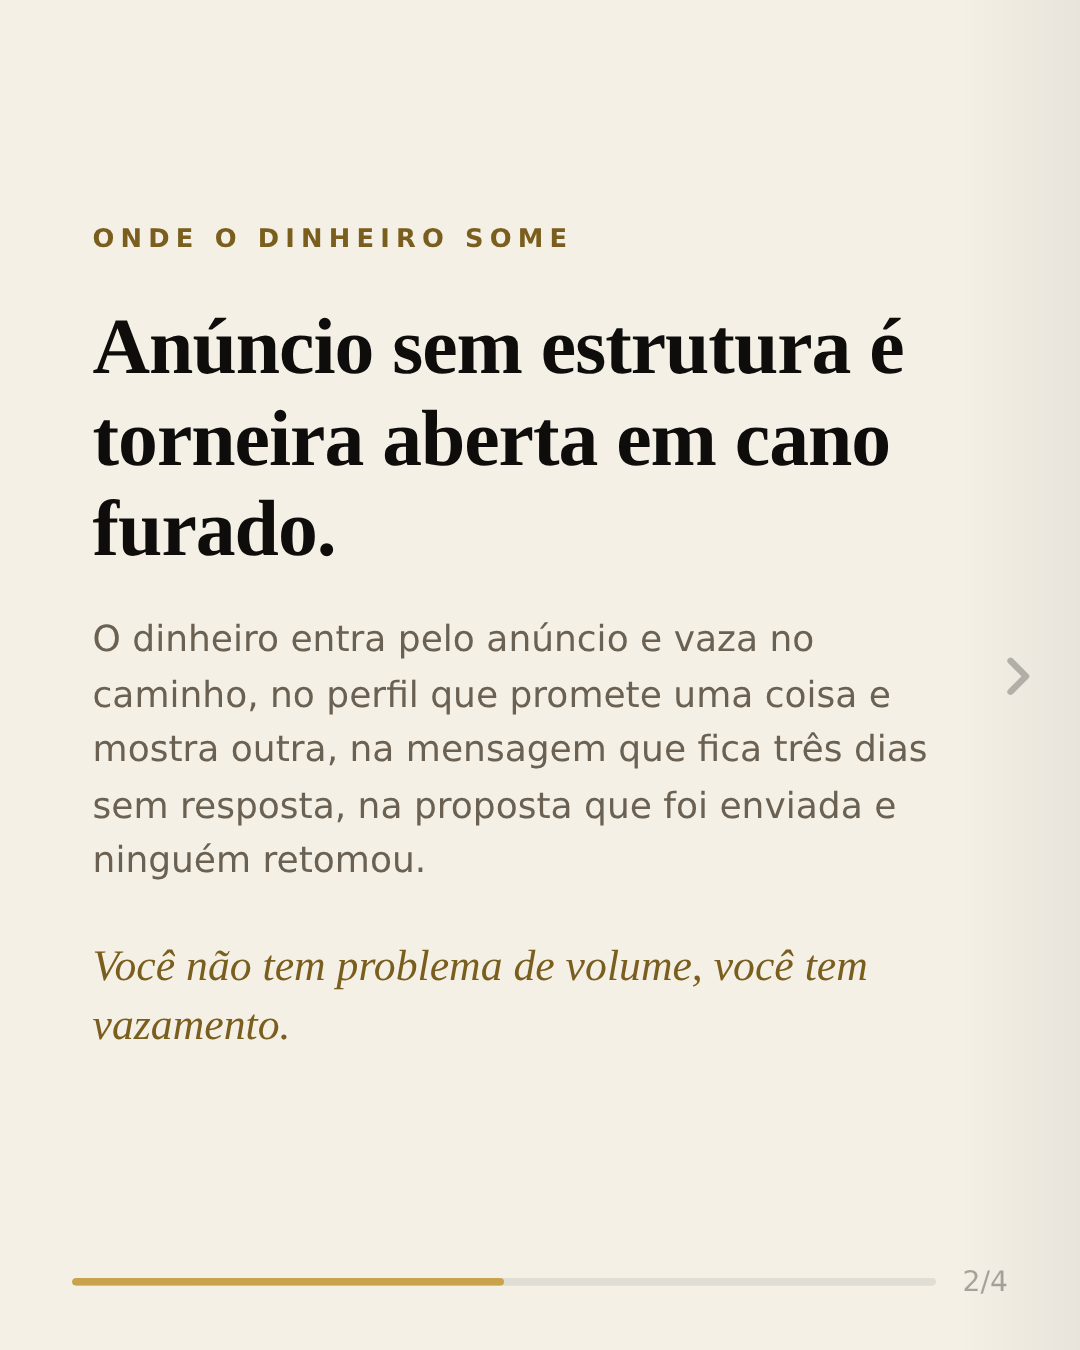
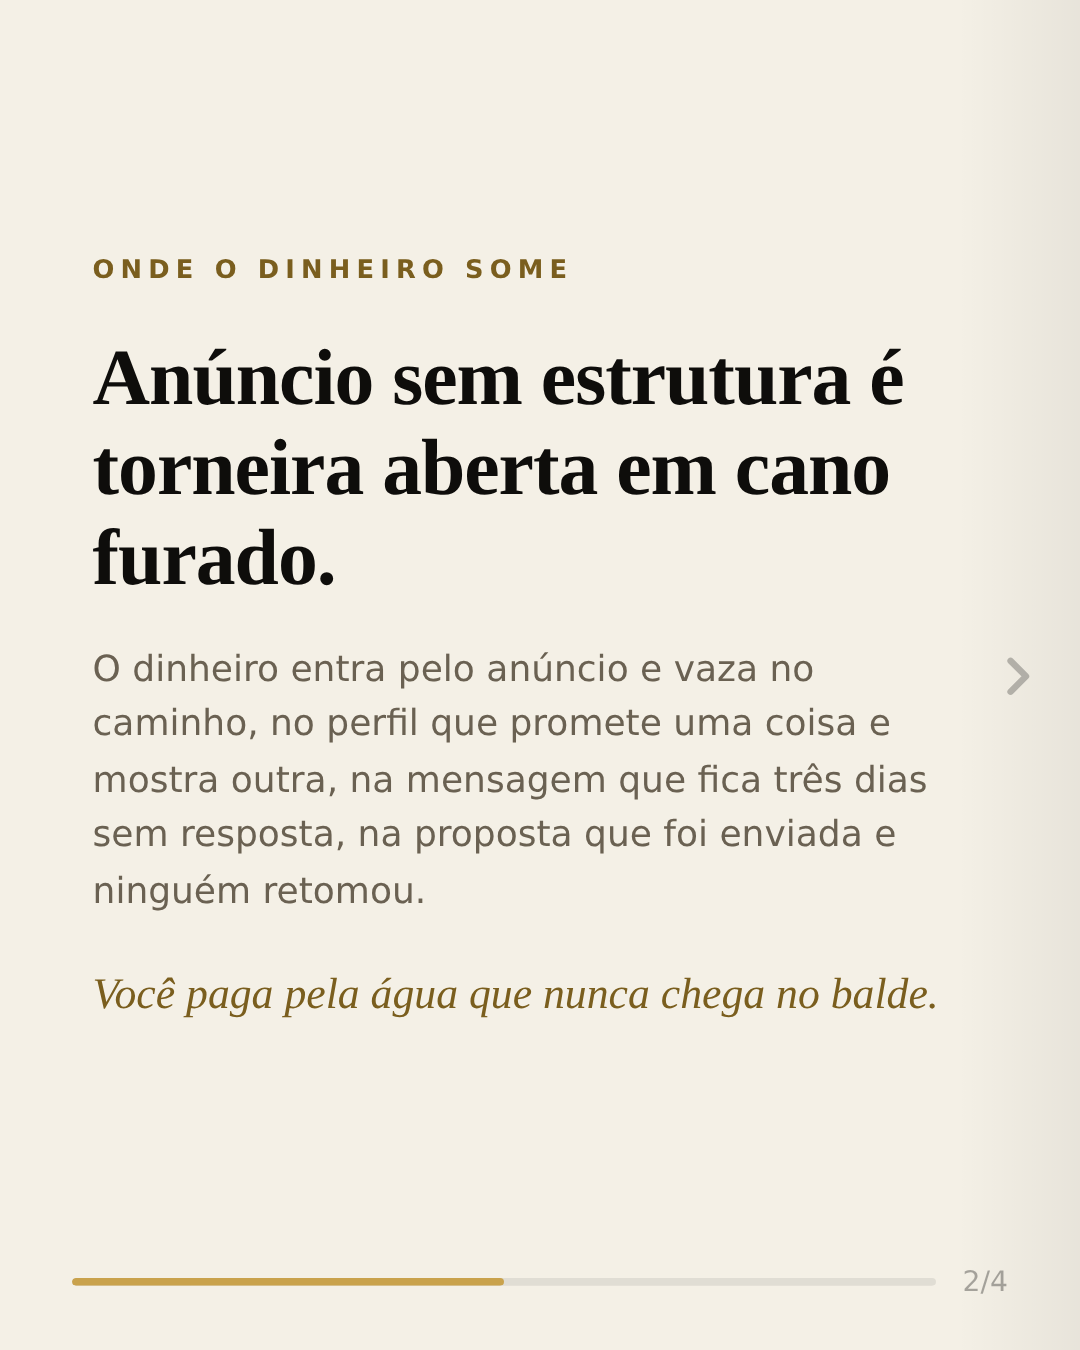
Vitoria Daniela: ajusta o remate do card 2 e cria variante do card 3 pro trafego
Remate do card 2: "Voce nao tem problema de volume, voce tem vazamento" ainda
era o padrao X/Y, so que com virgula no lugar do ponto. Virou "Voce paga pela
agua que nunca chega no balde", que estende a metafora e nomeia a perda em vez
de contrapor.

Palavra "sangue": verificada a politica oficial do Meta (Violent and Graphic
Content). Ela e escrita exclusivamente sobre imagery, proibindo imagens com
orgaos ou ossos expostos e armas apontadas pro espectador. A palavra blood nao
aparece na politica e nao ha restricao textual, entao nao ha violacao.

Mesmo assim, como o texto vai dentro da imagem e a revisao automatizada faz
OCR com classificador conservador, existe risco de cair em revisao manual e
atrasar a campanha. Por isso o card 3 passa a ter duas versoes, alternadas
pela constante CARD3: hospital (original dela, pro organico) e pneu furado
(sem a palavra sangue, pro trafego pago). A do pneu ainda ganha coerencia com
o card 2, porque conversa com o cano furado e com "acelera o prejuizo".

Claude-Session: https://claude.ai/code/session_013Sa3HLQHYweprDFbfMtnWK

Changed region(s): [[0.0917, 0.4667, 0.8556, 0.7778], [0.0917, 0.1556, 0.8556, 0.4356], [0.2444, 0.1556, 0.5194, 0.2178]]

diff --git a/clientes/vitoria-daniela/copy/2026-08-06-carrossel-sessao-gratuita/carrossel.html b/clientes/vitoria-daniela/copy/2026-08-06-carrossel-sessao-gratuita/carrossel.html
@@ -97,6 +97,10 @@ const BRAND = {
 /* Foto do lockup. Salve `foto-vitoria.jpg` nesta pasta e ela entra sozinha. */
 const FOTO = 'foto-vitoria.jpg';
 
+/* Versão do card 3: 'hospital' (analogia original dela) ou 'pneu' (sem a
+   palavra sangue, para zero atrito na revisão automatizada do tráfego). */
+const CARD3 = 'hospital';
+
 const LEGENDA = {
   sub:   'Carrossel · 4 cards',
   texto: 'O dinheiro não some no anúncio. Ele vaza depois dele.',
@@ -200,12 +204,24 @@ const SLIDES = [
       ${tag('ONDE O DINHEIRO SOME', 'light')}
       ${titulo('Anúncio sem estrutura é torneira aberta em cano furado.', 'light', 31)}
       ${paragrafo('O dinheiro entra pelo anúncio e vaza no caminho, no perfil que promete uma coisa e mostra outra, na mensagem que fica três dias sem resposta, na proposta que foi enviada e ninguém retomou.', 'light')}
-      <p class="serif" style="font-size:17px;line-height:1.35;color:${BRAND.dark};font-style:italic;margin-top:18px;">Você não tem problema de volume, você tem vazamento.</p>
+      <p class="serif" style="font-size:17px;line-height:1.35;color:${BRAND.dark};font-style:italic;margin-top:18px;">Você paga pela água que nunca chega no balde.</p>
     </div>
   `},
 
-  /* 3 — PRINCÍPIO: a ordem certa, com a analogia do hospital que ela usa. */
-  { fundo: 'dark', corpo: `
+  /* 3 — PRINCÍPIO: a ordem certa.
+     Duas versões. A do hospital é a analogia original dela (está no site) e não
+     viola a política do Meta, que é escrita só sobre imagery. A do pneu evita
+     a palavra "sangue" no texto da imagem, caso queira zero atrito no OCR da
+     revisão automatizada. Troque em CARD3 lá no topo. */
+  { fundo: 'dark', corpo: CARD3 === 'pneu' ? `
+    <div class="slide-content" style="justify-content:center;padding:38px 36px 64px;">
+      ${tag('A ORDEM CERTA', 'dark')}
+      ${titulo('Ninguém pisa no acelerador com o pneu furado.', 'dark', 33)}
+      ${filete('dark')}
+      ${paragrafo('Primeiro se troca o pneu, depois se pensa em velocidade, e com o seu negócio funciona igual.', 'dark')}
+      ${paragrafo('Colocar mais verba em cima de estrutura furada não corrige nada, só acelera o prejuízo.', 'dark', 12)}
+    </div>
+  ` : `
     <div class="slide-content" style="justify-content:center;padding:38px 36px 64px;">
       ${tag('A ORDEM CERTA', 'dark')}
       ${titulo('Ninguém estanca um sangramento treinando condicionamento.', 'dark', 31)}

diff --git a/clientes/vitoria-daniela/copy/2026-08-06-carrossel-sessao-gratuita/copy.md b/clientes/vitoria-daniela/copy/2026-08-06-carrossel-sessao-gratuita/copy.md
@@ -16,13 +16,22 @@
 **Tag:** ONDE O DINHEIRO SOME
 **Título:** Anúncio sem estrutura é torneira aberta em cano furado.
 **Corpo:** O dinheiro entra pelo anúncio e vaza no caminho, no perfil que promete uma coisa e mostra outra, na mensagem que fica três dias sem resposta, na proposta que foi enviada e ninguém retomou.
-**Remate:** *Você não tem problema de volume, você tem vazamento.*
+**Remate:** *Você paga pela água que nunca chega no balde.*
 
-### Card 3 · preto
-**Tag:** A ORDEM CERTA
+### Card 3 · preto — duas versões
+
+**Versão A (padrão, `slide_3.png`), analogia original dela:**
 **Título:** Ninguém estanca um sangramento treinando condicionamento.
 **Corpo:** No hospital a prioridade é parar o sangue, estabilizar, e só então pensar em deixar o corpo mais forte.
 Com o seu negócio é igual, colocar mais verba em cima de estrutura furada não corrige nada, só acelera o prejuízo.
+
+**Versão B (`slide_3-alternativo-pneu.png`), sem a palavra sangue:**
+**Título:** Ninguém pisa no acelerador com o pneu furado.
+**Corpo:** Primeiro se troca o pneu, depois se pensa em velocidade, e com o seu negócio funciona igual.
+Colocar mais verba em cima de estrutura furada não corrige nada, só acelera o prejuízo.
+
+Trocar entre as duas: a constante `CARD3` no topo do `carrossel.html` (`'hospital'` ou
+`'pneu'`), e reexportar.
 
 ### Card 4 · dourado
 **Tag:** O PRÓXIMO PASSO
@@ -40,7 +49,7 @@ Com o seu negócio é igual, colocar mais verba em cima de estrutura furada não
 >
 > É que o dinheiro não some no anúncio, ele vaza depois dele, no perfil que promete uma coisa e mostra outra, na mensagem que fica três dias sem resposta, na proposta que foi enviada e ninguém retomou.
 >
-> Anúncio sem estrutura é torneira aberta em cano furado, você paga pela água que nunca chega no balde, e a saída não é abrir mais a torneira.
+> Anúncio sem estrutura é torneira aberta em cano furado, você paga pela água que nunca chega no balde, e a saída não passa por abrir mais a torneira.
 >
 > Ninguém estanca um sangramento treinando condicionamento, no hospital a prioridade é parar o sangue, estabilizar, e só então pensar em deixar o corpo mais forte, e com negócio funciona exatamente igual.
 >
@@ -100,6 +109,28 @@ ritmo de composição.
 > Nota: "Clique em Saiba Mais" é imperativo, o que a Diretriz dela normalmente evita. Foi
 > pedido direto dela, e faz sentido se a peça for veiculada como anúncio, já que remete ao
 > botão nativo do Instagram.
+
+### Segunda rodada
+
+**Remate do card 2.** *"Você não tem problema de volume, você tem vazamento"* ainda era o
+padrão X/Y, só que com vírgula no lugar do ponto. Trocado por *"Você paga pela água que
+nunca chega no balde"*, que estende a metáfora e nomeia a perda em vez de contrapor.
+
+**Palavra "sangue" no tráfego.** Verificado na política oficial do Meta
+([Violent and Graphic Content](https://transparency.meta.com/policies/ad-standards/objectionable-content/violent-graphic-content/)).
+A política é escrita **exclusivamente sobre `imagery`**: proíbe imagens com "visible
+innards, such as exposed organs, bones, or muscle tissue" e armas apontadas para o
+espectador. **A palavra "blood" não aparece no texto da política, e não há restrição
+textual.** Pela letra da política, não há violação.
+
+O risco residual não é de política, é de operação: como o texto está dentro da imagem, a
+revisão automatizada faz OCR e os classificadores são conservadores, então existe chance de
+cair em revisão manual e atrasar a subida da campanha. Por isso a versão B existe, para
+usar quando a peça for veiculada como anúncio pago e não se queira nenhum atrito.
+
+**Recomendação:** versão A (hospital) no orgânico, já que é a analogia original dela e está
+no site. Versão B (pneu) no tráfego pago. A B ainda ganha coerência com o card 2, porque
+"pneu furado" conversa com "cano furado" e "acelerador" com "acelera o prejuízo".
 
 ---
 
